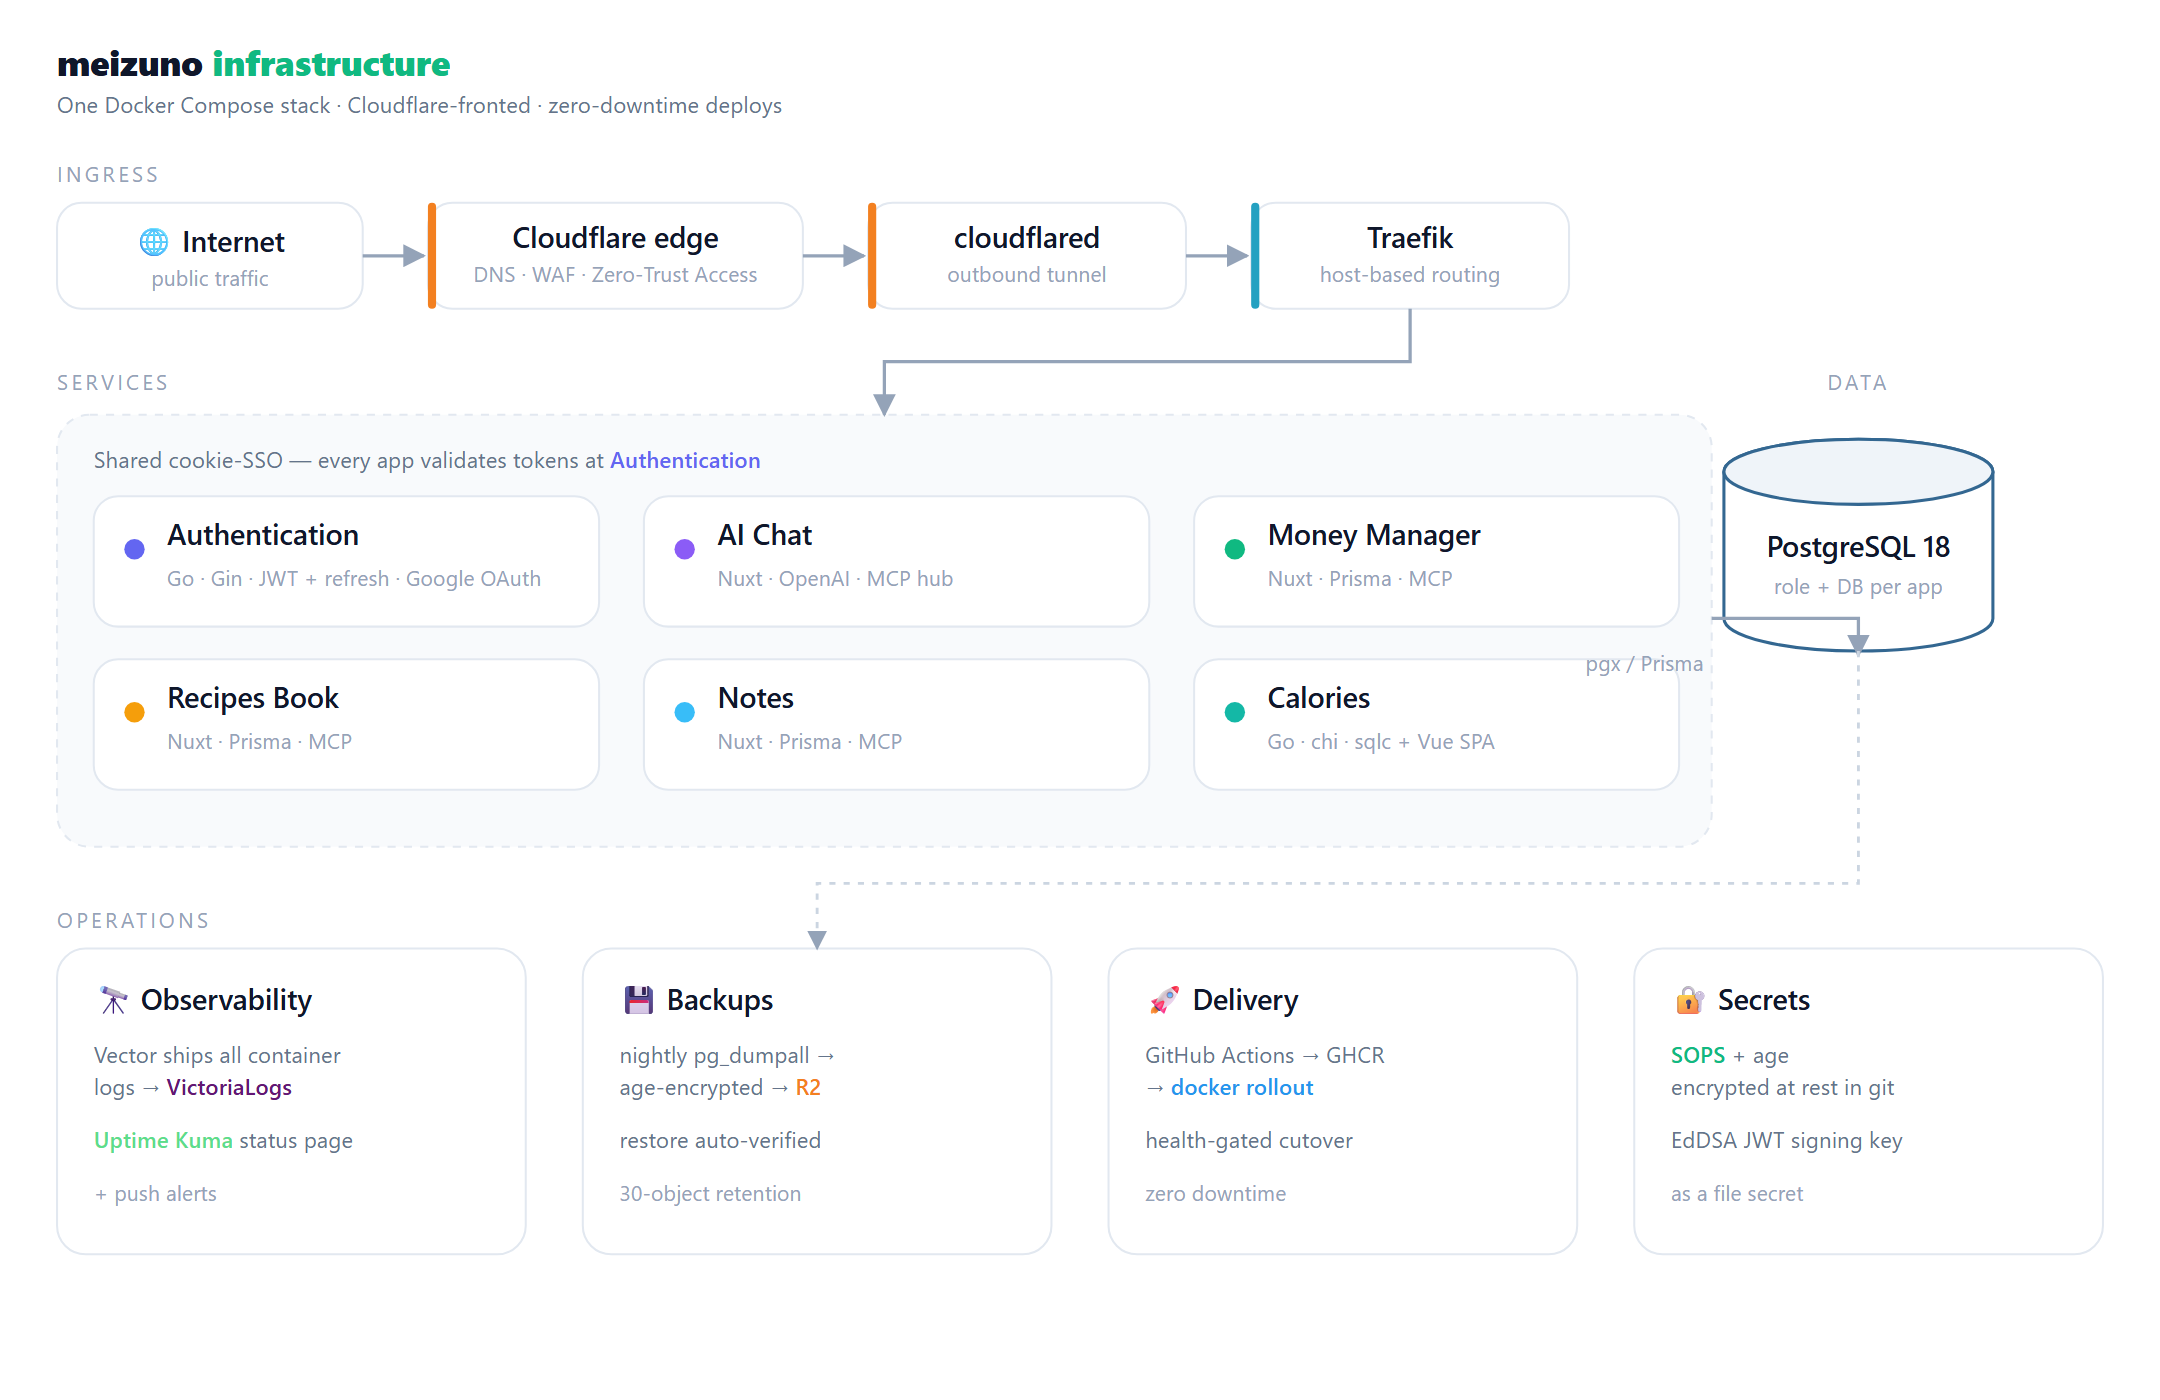
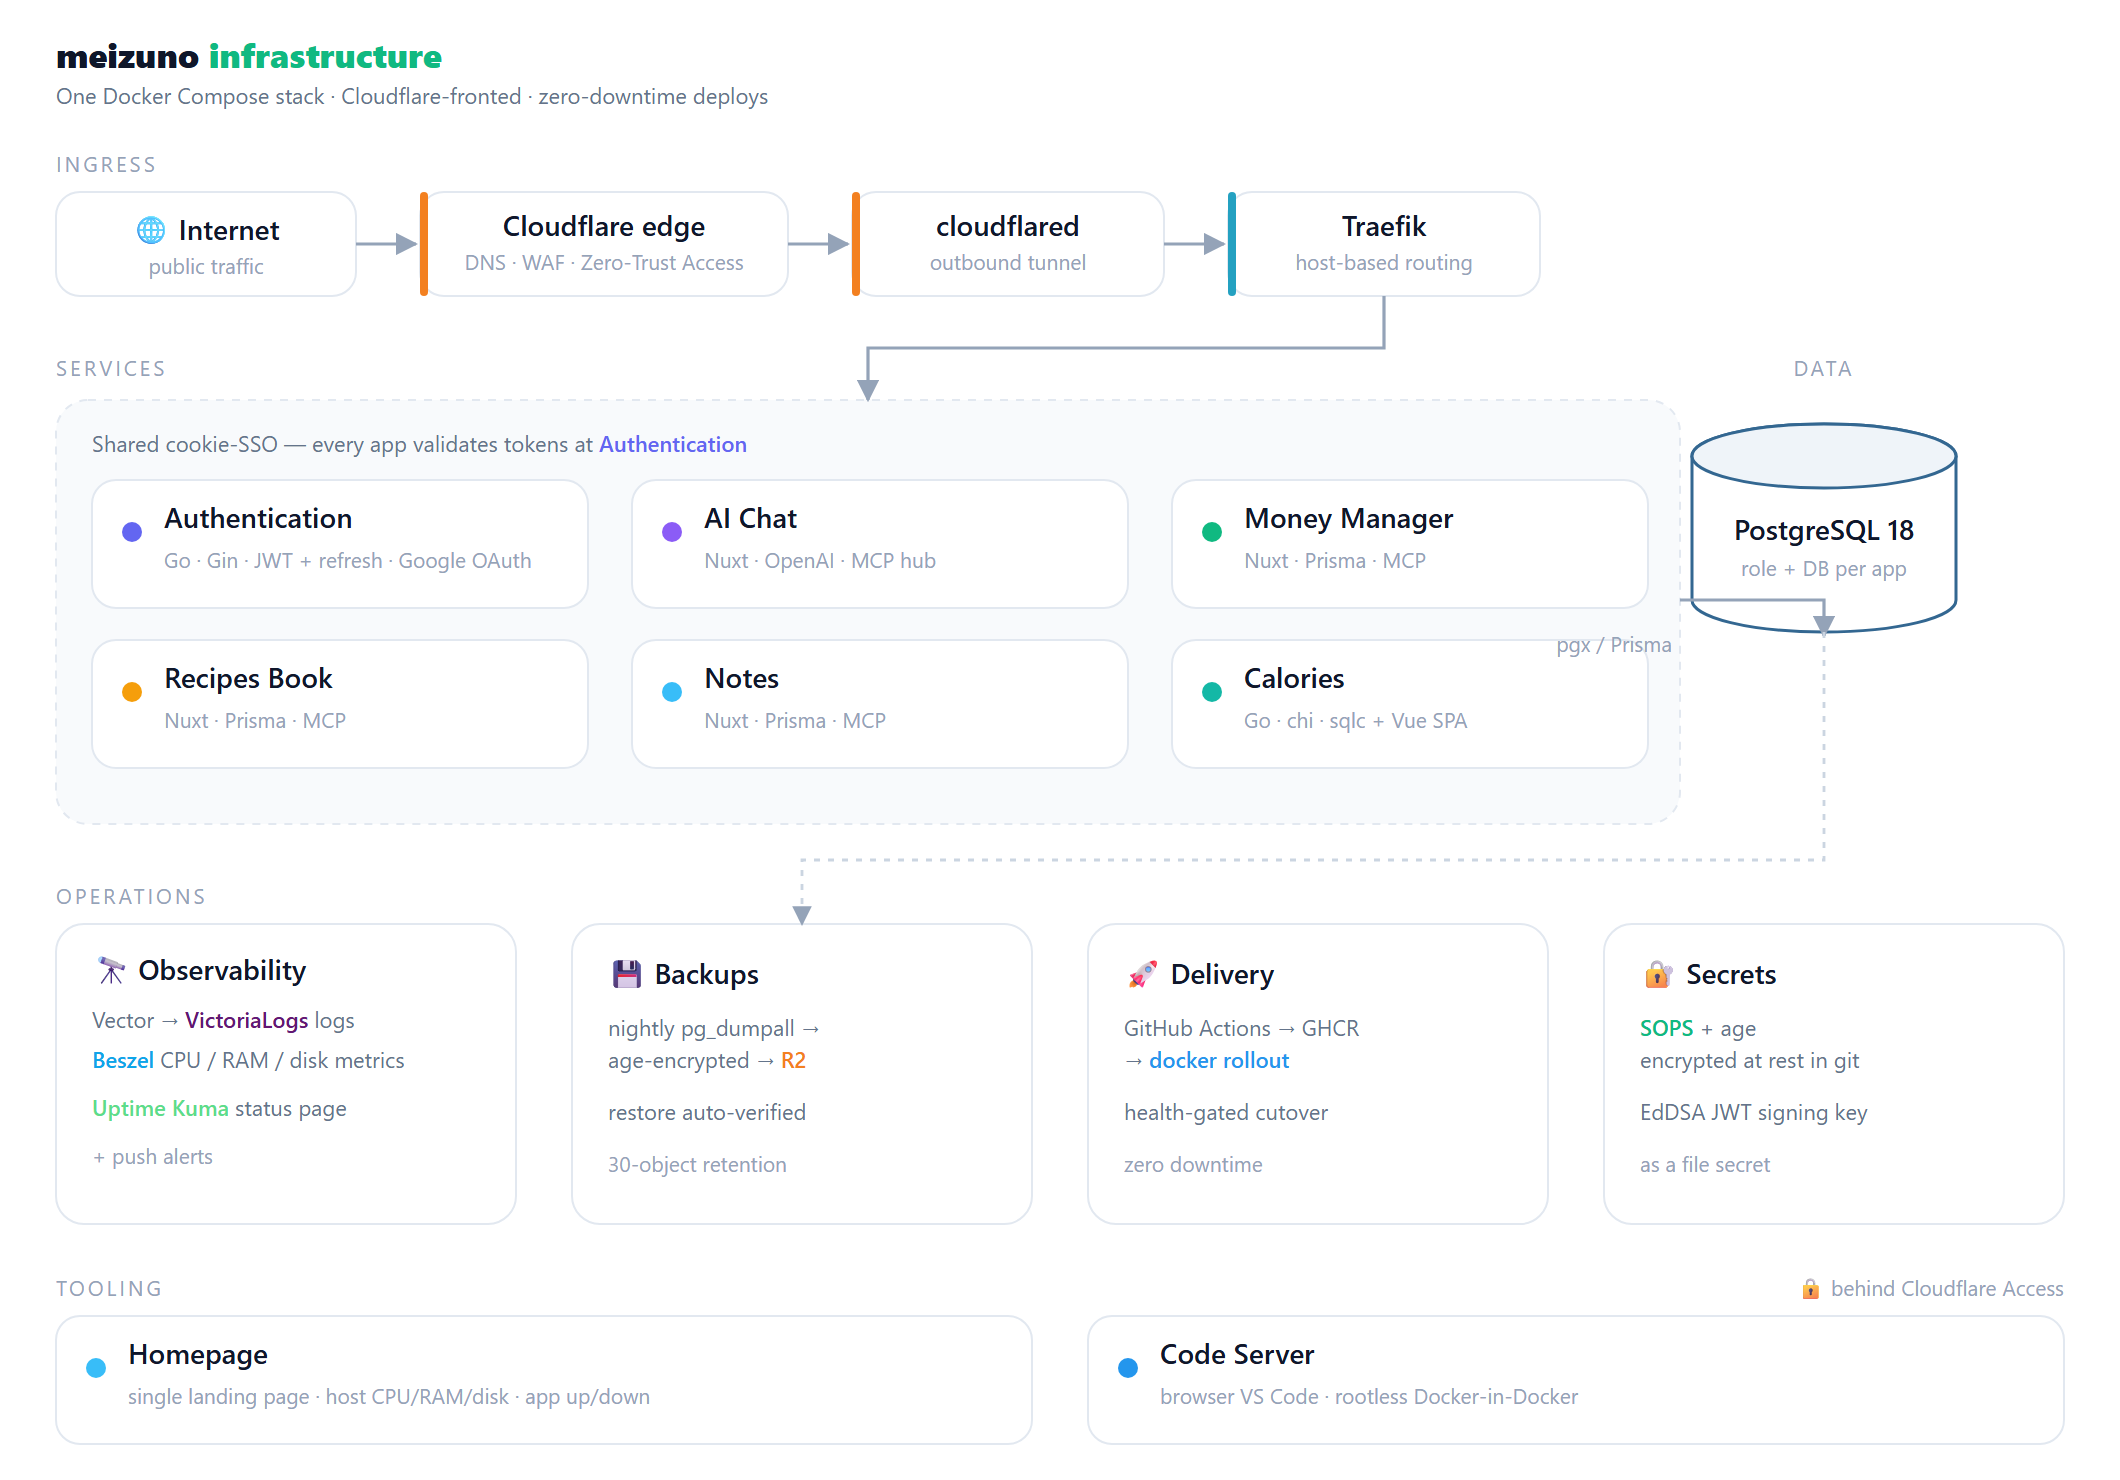
docs: reorder "In action" clips and refresh the architecture diagram
- Order the infra clips by prominence: Homepage → Beszel → Status → Logs →
  Backups (README + the MP4 links line).
- Diagram: add Beszel to the Observability tile (CPU/RAM/disk metrics) and a
  new TOOLING band with Homepage (landing page) and Code Server (browser VS
  Code + rootless Docker-in-Docker), noted as edge-gated behind Cloudflare
  Access. Re-rendered architecture.png (2120x1480) from the SVG.

diff --git a/README.md b/README.md
@@ -12,6 +12,18 @@ replica per service.
 
 <sub>Recorded against the running stack.</sub>
 
+#### 🏠 Dashboard — Homepage, one landing page for every service
+
+<a href="https://home.meizuno.com"><img src="preview/homepage.gif" alt="Homepage dashboard — Apps and Infrastructure in two columns, host CPU/RAM/disk header and a live up/down dot on every tile" width="100%"></a>
+
+<sub>Host CPU/RAM/disk across the top; every tile carries a live up/down dot. Behind Cloudflare Access: <a href="https://home.meizuno.com">home.meizuno.com ↗</a></sub>
+
+#### 📈 Resource metrics — Beszel, per-host & per-container CPU/RAM/disk/net
+
+<a href="https://beszel.meizuno.com"><img src="preview/beszel.gif" alt="Beszel dashboard — CPU, memory, disk and network time-series for the host and each Docker container" width="100%"></a>
+
+<sub>Agent → hub over WebSocket; per-container stats via the Docker socket. Behind Cloudflare Access: <a href="https://beszel.meizuno.com">beszel.meizuno.com ↗</a></sub>
+
 #### 📊 Status page — Uptime Kuma, all systems operational
 
 <a href="https://status.meizuno.com/status/meizuno"><img src="preview/status.gif" alt="Meizuno status page — live heartbeats for every service, all systems operational" width="100%"></a>
@@ -22,23 +34,11 @@ replica per service.
 
 <img src="preview/logs.gif" alt="VictoriaLogs LogsQL query and per-service aggregation" width="100%">
 
-#### 📈 Resource metrics — Beszel, per-host & per-container CPU/RAM/disk/net
-
-<a href="https://beszel.meizuno.com"><img src="preview/beszel.gif" alt="Beszel dashboard — CPU, memory, disk and network time-series for the host and each Docker container" width="100%"></a>
-
-<sub>Agent → hub over WebSocket; per-container stats via the Docker socket. Behind Cloudflare Access: <a href="https://beszel.meizuno.com">beszel.meizuno.com ↗</a></sub>
-
 #### 💾 Backups — nightly pg_dumpall → age-encrypted → R2, restore auto-verified
 
 <img src="preview/backup.gif" alt="Backup and restore-verification pipeline" width="100%">
 
-#### 🏠 Dashboard — Homepage, one landing page for every service
-
-<a href="https://home.meizuno.com"><img src="preview/homepage.gif" alt="Homepage dashboard — Apps and Infrastructure in two columns, host CPU/RAM/disk header and a live up/down dot on every tile" width="100%"></a>
-
-<sub>Host CPU/RAM/disk across the top; every tile carries a live up/down dot. Behind Cloudflare Access: <a href="https://home.meizuno.com">home.meizuno.com ↗</a></sub>
-
-> <sub>Full-resolution MP4s: <a href="preview/status.mp4">status</a> · <a href="preview/logs.mp4">logs</a> · <a href="preview/beszel.mp4">beszel</a> · <a href="preview/backup.mp4">backup</a> · <a href="preview/homepage.mp4">homepage</a>.</sub>
+> <sub>Full-resolution MP4s: <a href="preview/homepage.mp4">homepage</a> · <a href="preview/beszel.mp4">beszel</a> · <a href="preview/status.mp4">status</a> · <a href="preview/logs.mp4">logs</a> · <a href="preview/backup.mp4">backup</a>.</sub>
 
 ## How it works
 
